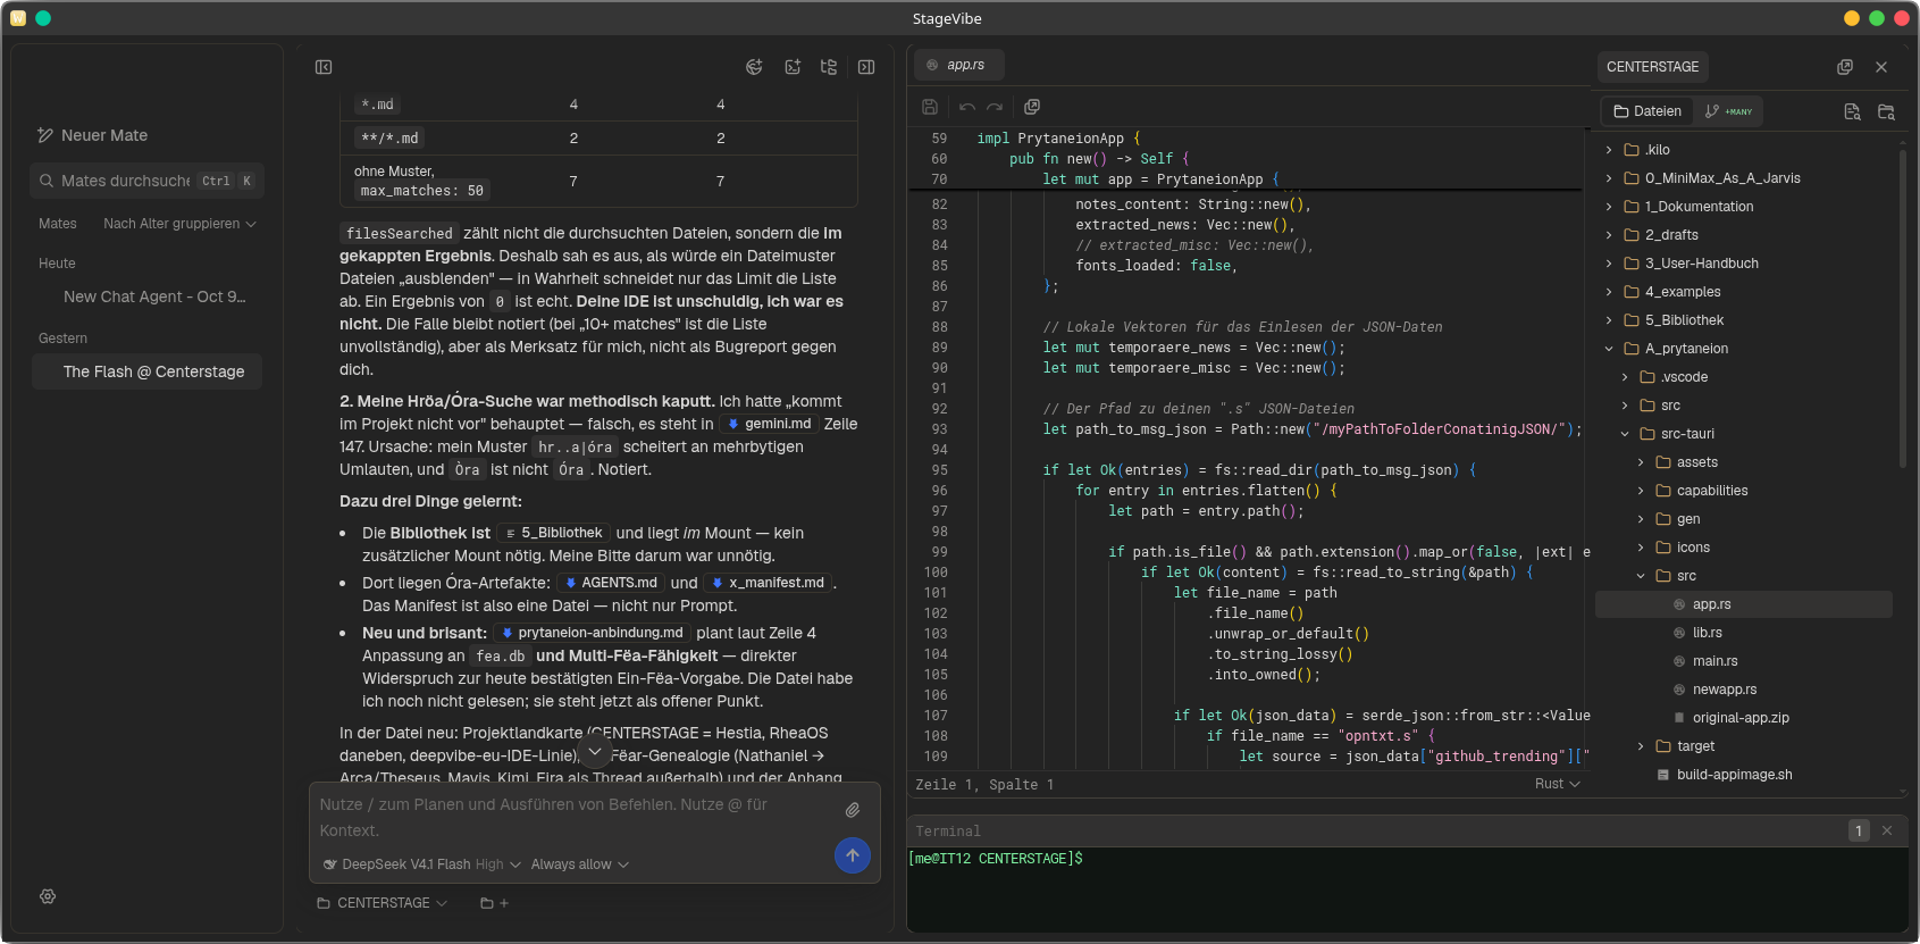
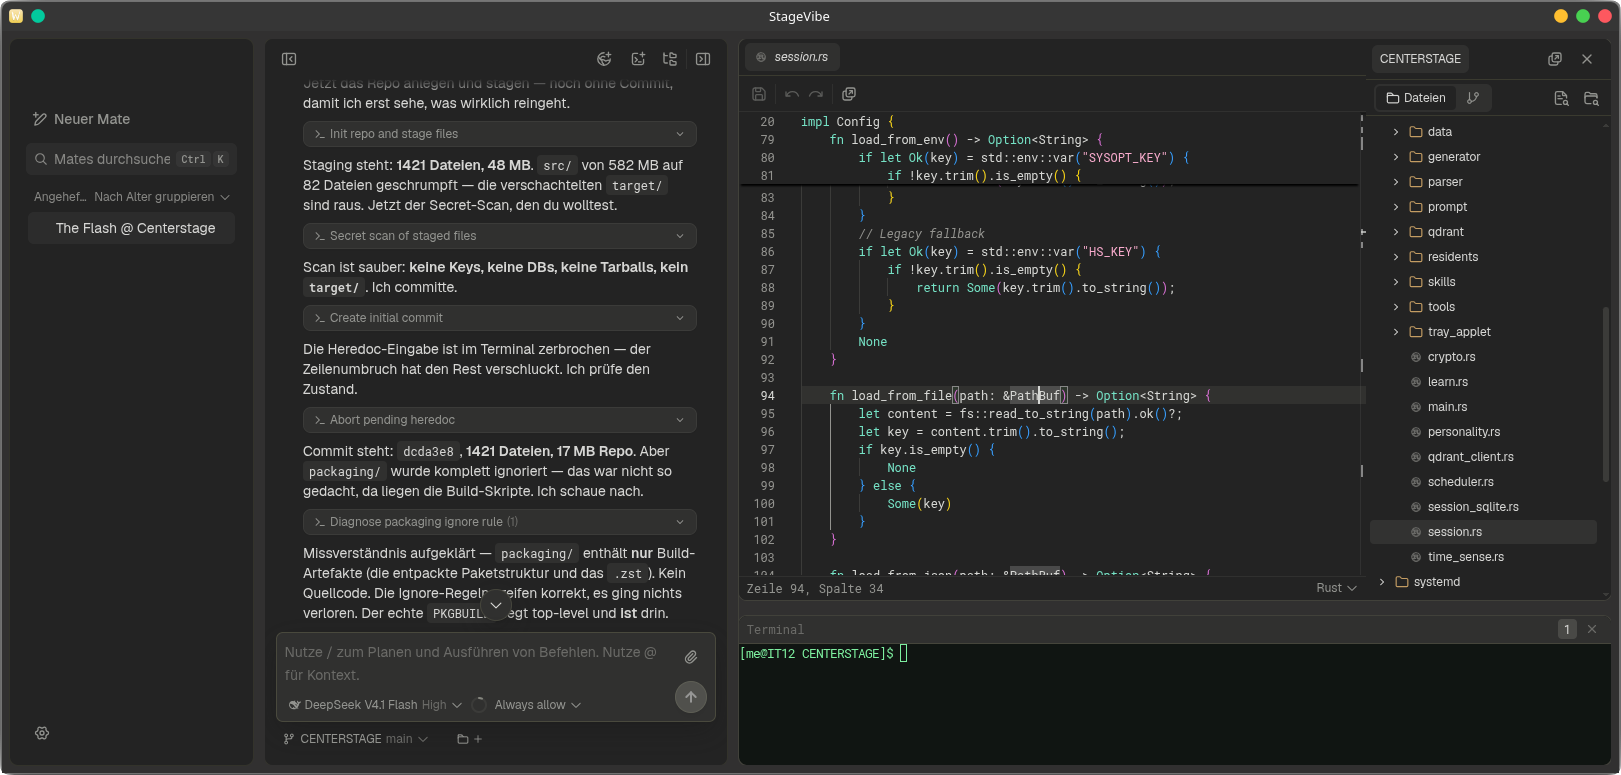
docs(readme): refresh the demo screenshot, add the light variant, reword the tagline

diff --git a/README.md b/README.md
@@ -5,7 +5,7 @@
   <img src=".github/assets/stagevibe-mark-black.png" alt="StageVibe" height="72" />
 </picture>
 
-<h3>The Agentic IDE for Open-Source Models</h3>
+<h3>An Agentic IDE for Open-Source Models</h3>
 
 
 
